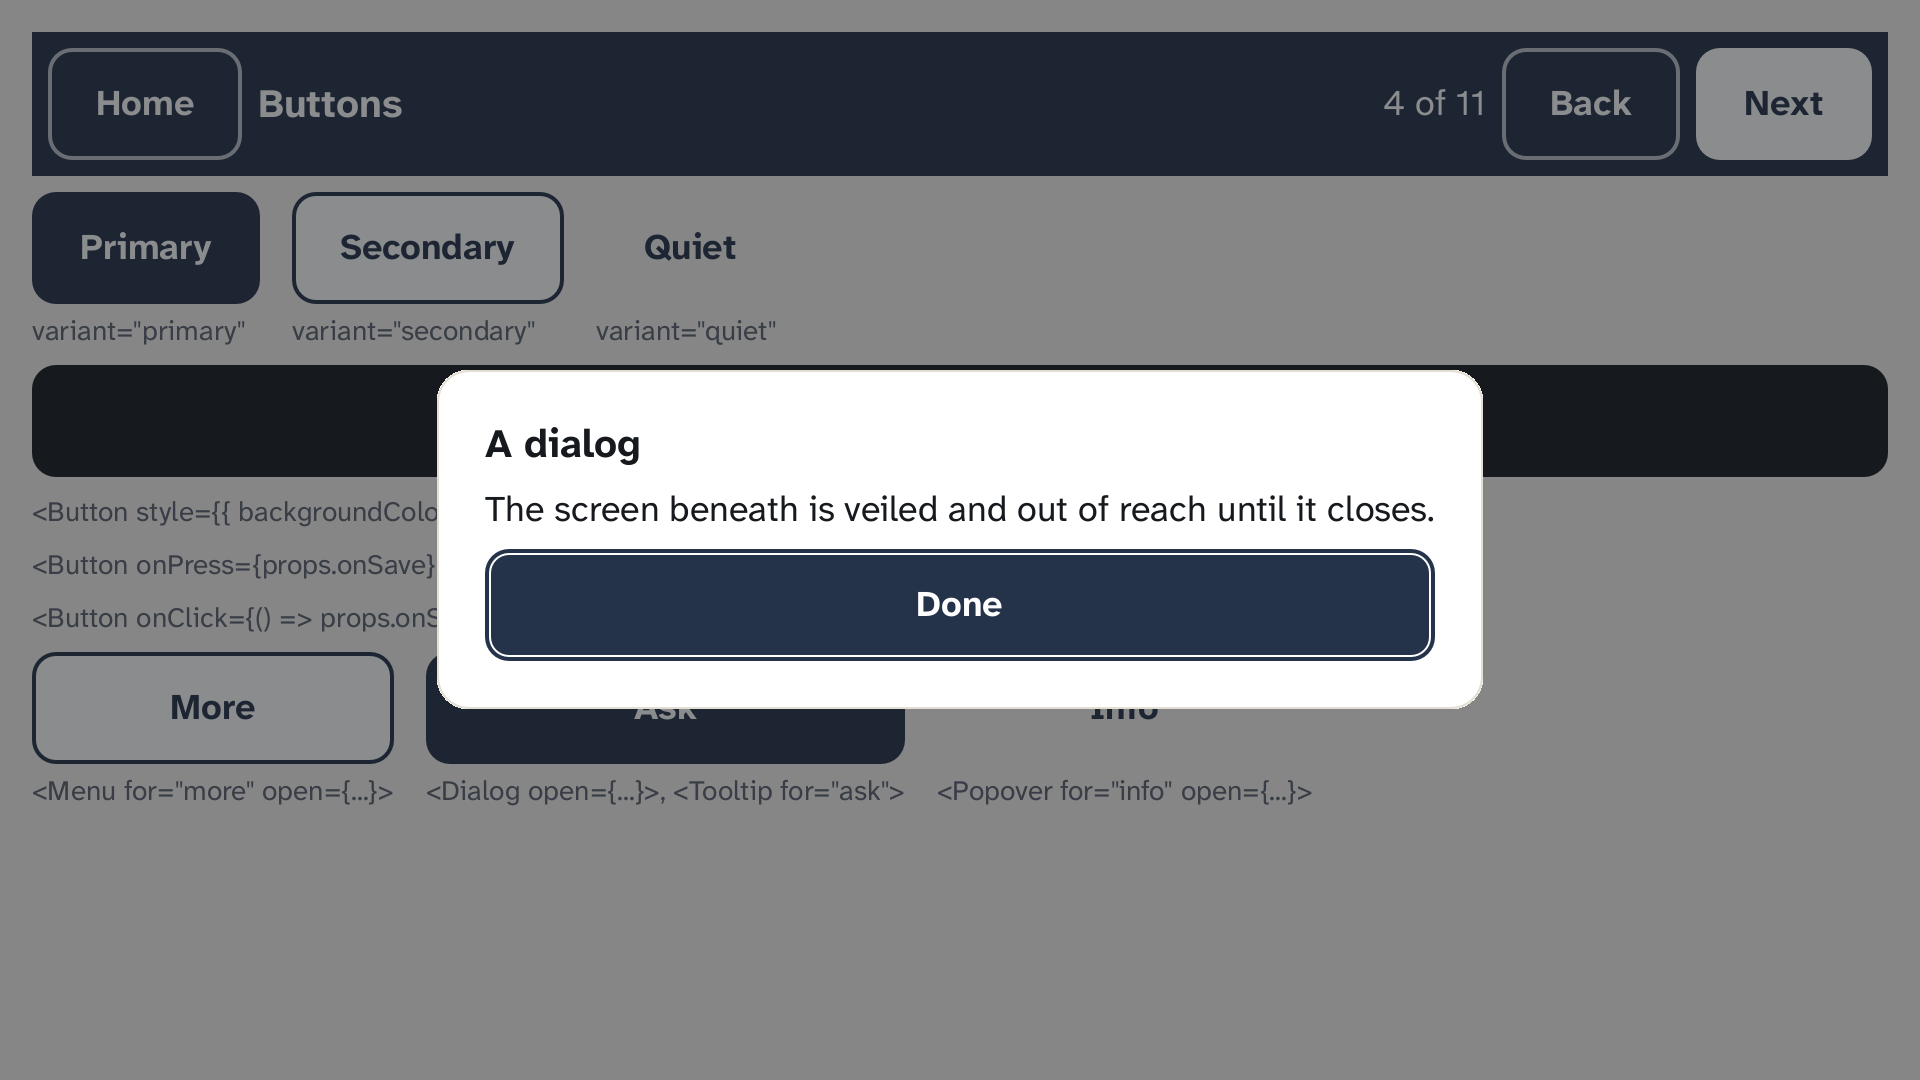
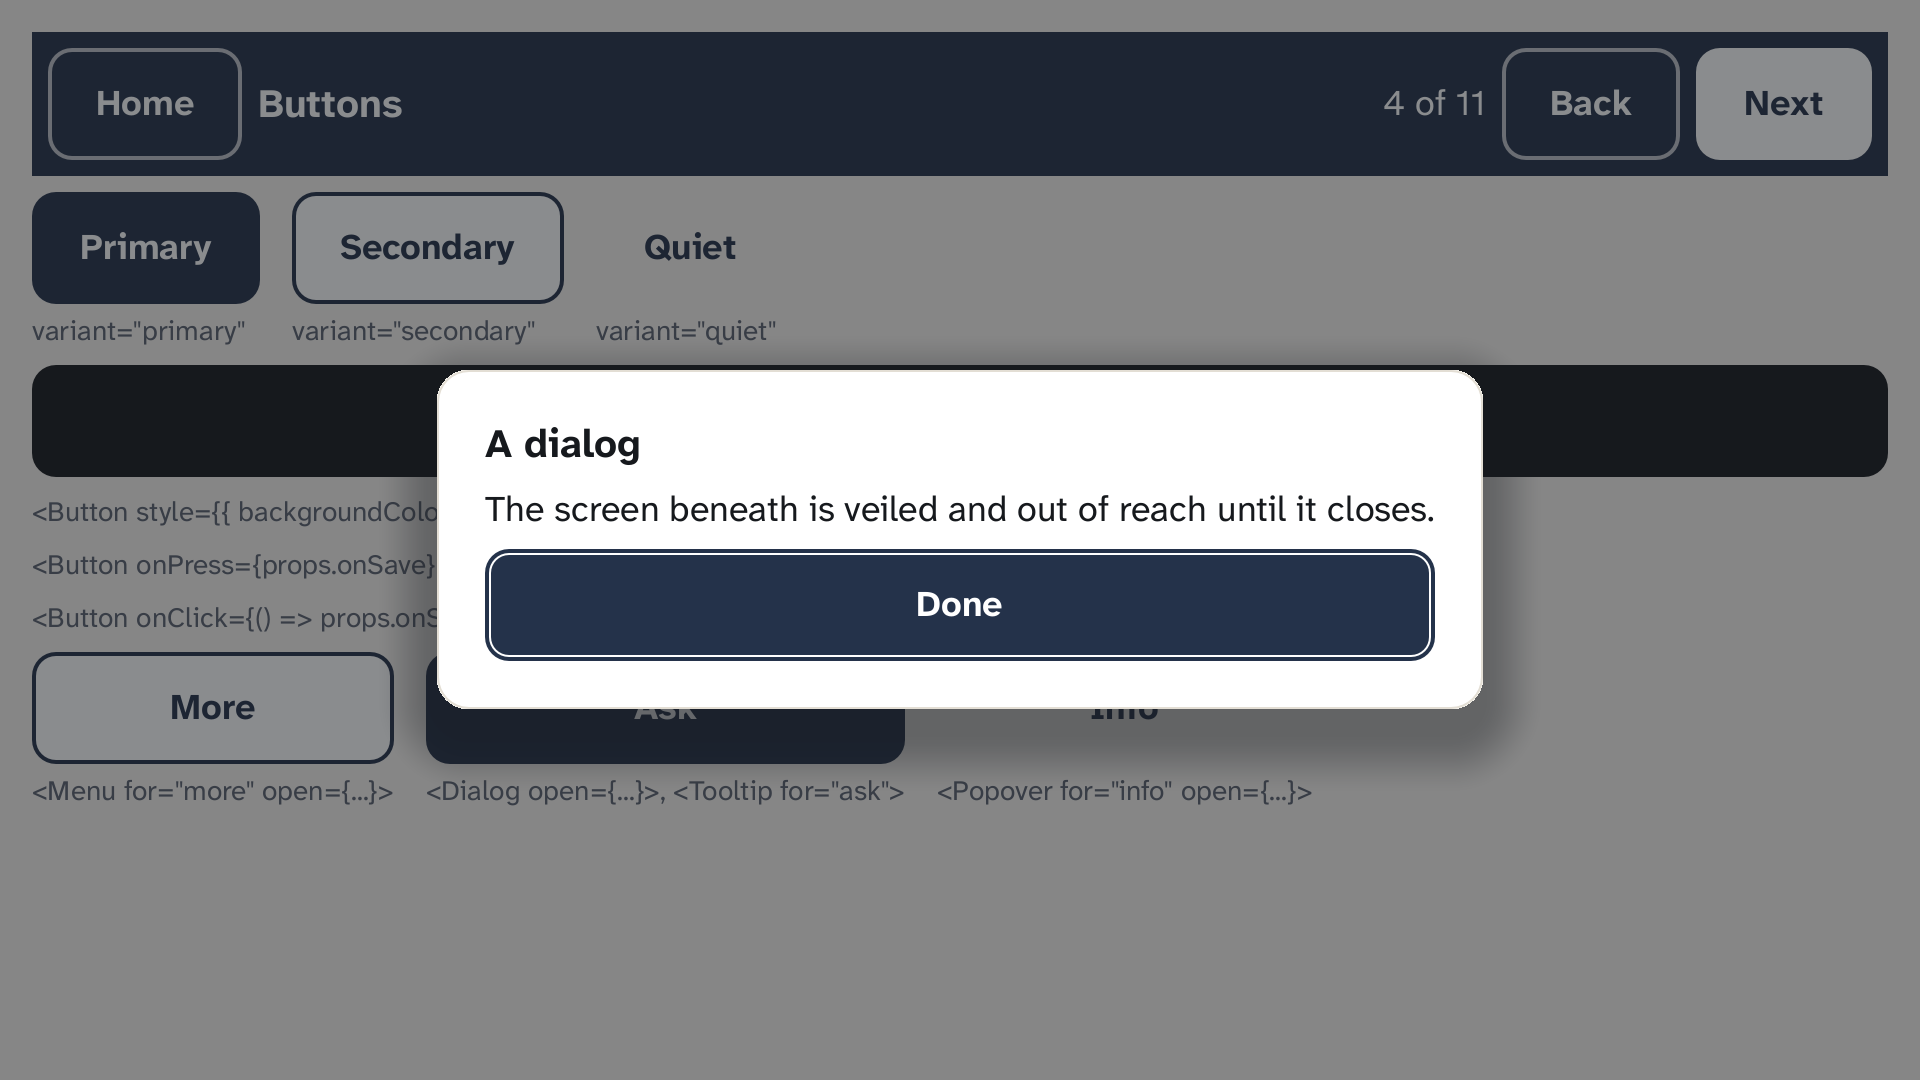
The showcase with shadows, gradients and opacity
NoWayOS 8557844 (effects): the gallery's style screen shows each shadow, a gradient and an opacity; menus and dialogs cast shadows.

Changed region(s): [[0.4688, 0.4278, 0.7812, 0.7028], [0.2188, 0.4278, 0.25, 0.6417], [0.3438, 0.6417, 0.375, 0.6722]]

diff --git a/showcase/showcase-app/tsx/gallery-css.tsx b/showcase/showcase-app/tsx/gallery-css.tsx
@@ -1,6 +1,6 @@
 // The Screen Compiler gallery, 11 of 11: the style properties a screen may declare: sizes, alignment, and
 // the theme's colours by name - never a colour value, so the
-// large-text, high-contrast theme recolours them.
+// large-text, high-contrast theme recolours them - and the theme's shadows, gradients and opacity.
 // Each example is captioned with the TSX that made it. Written for the showcase in TSX and
 // converted at build time like every other screen here; the launcher's Screen Compiler
 // tile opens the first, and Back and Next go round them all.
@@ -70,6 +70,24 @@ export function GalleryCssScreen(props: GalleryProps) {
           <Text>320 and 560</Text>
         </Row>
         <Text role="caption">{'<Row style={{ minWidth: 320, maxWidth: 560, justifyContent: "space-between" }}>'}</Text>
+        <Row gap={EDGE}>
+          <Card padding={TIGHT} style={{ boxShadow: "low" }}>
+            <Text>low</Text>
+          </Card>
+          <Card padding={TIGHT} style={{ boxShadow: "medium" }}>
+            <Text>medium</Text>
+          </Card>
+          <Card padding={TIGHT} style={{ boxShadow: "high" }}>
+            <Text>high</Text>
+          </Card>
+          <Column padding={TIGHT} style={{ background: "linear-gradient(to right, button, text)", borderRadius: 8 }}>
+            <Text style={{ color: "button-text" }}>A gradient</Text>
+          </Column>
+          <Card padding={TIGHT} style={{ opacity: 0.5 }}>
+            <Text>Half see-through</Text>
+          </Card>
+        </Row>
+        <Text role="caption">{'style={{ boxShadow: "medium" }}, { background: "linear-gradient(to right, button, text)" }, { opacity: 0.5 }'}</Text>
       </Column>
     </Screen>
   );
